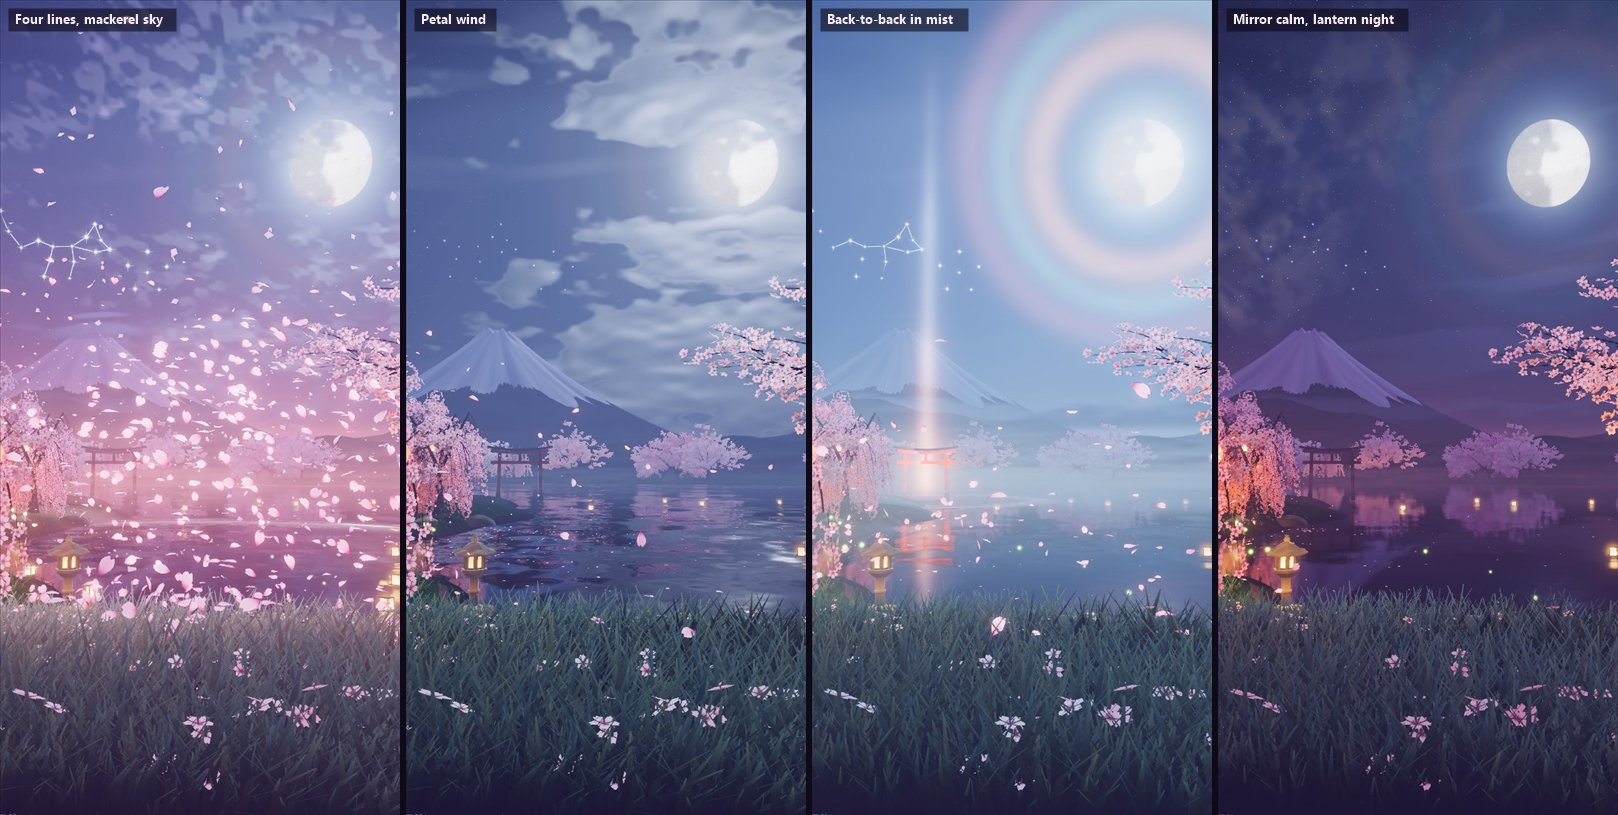
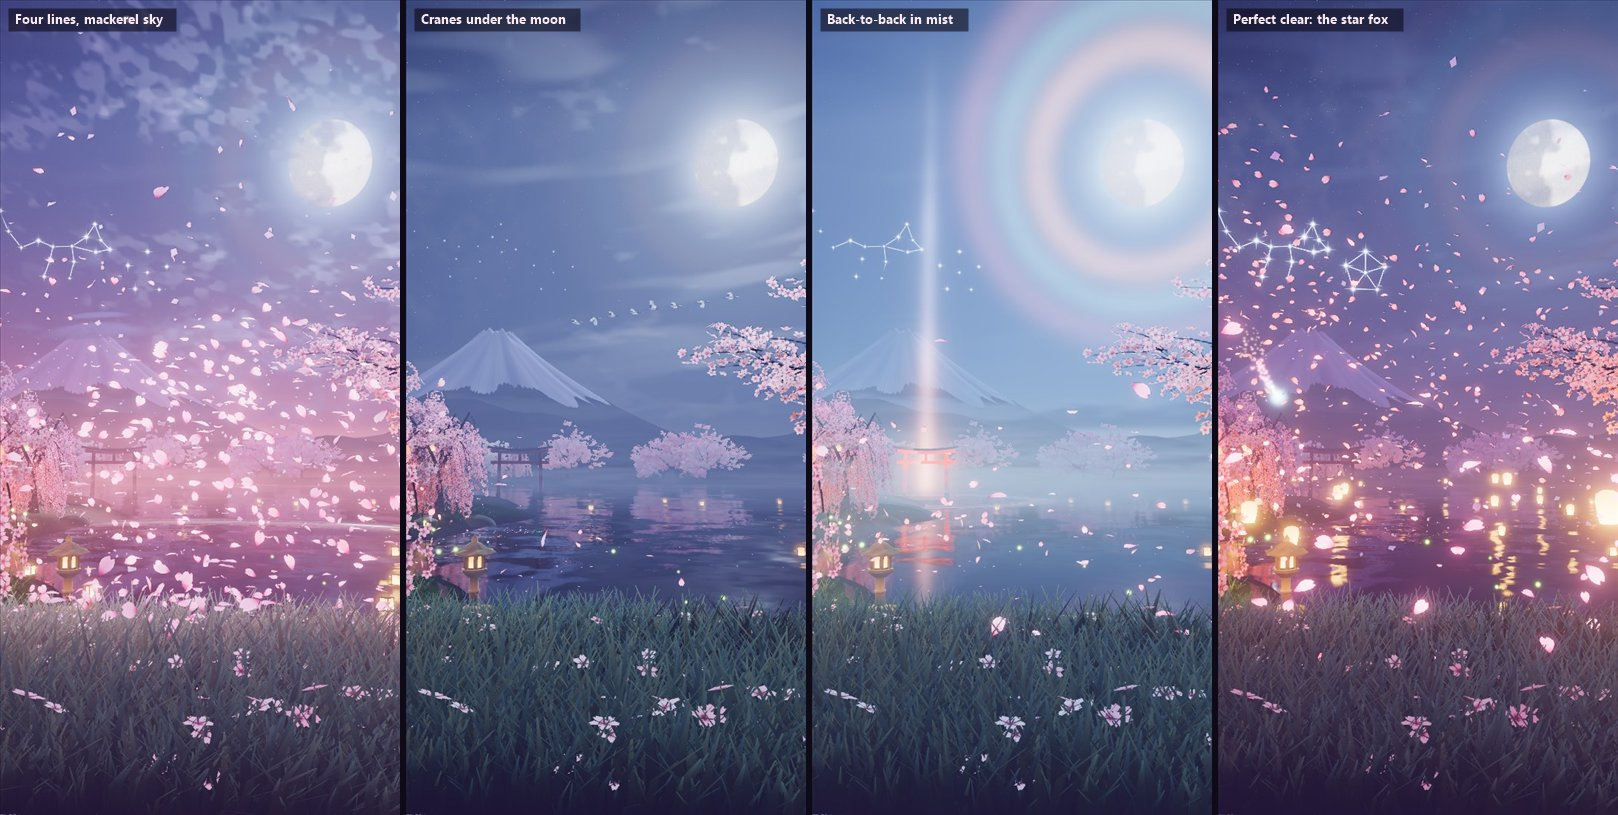
Docs and skill: Sakura Twilight's living night — the cranes, the tests and the faults they found, uncapped cost; two more rows (the moon's grid edge, scoring a skein's routes)

diff --git a/docs/ARCHITECTURE_INDEX.md b/docs/ARCHITECTURE_INDEX.md
@@ -108,7 +108,7 @@ conflicts with it, the umbrella wins unless it explicitly links out to that plan
 | [HALCYON_APEX_VISUAL_OVERHAUL_2026-10.md](HALCYON_APEX_VISUAL_OVERHAUL_2026-10.md) | Reference | From-scratch rebuild (2026-10-08): the sanctuary of first light — a back-lit dawn over a clear lagoon, a terraced pyramid planned as boxes and emitted as flat masonry with closed-form baked occlusion, one shadow map read by every self-shaded surface, crystals cut as instanced bipyramids and shaded without a framebuffer read, ley lines as an arc-length coordinate that pulses run along, a lagoon that knows where the masonry stands (shelf, foam, bed, net of light, planar mirror), clouds as two planes in perspective, and a combo language of weightlessness (shards lift pair by pair, drops of the lagoon bead up); one node renderer on both backends, no assets; tiers, tests and in-game evidence. Perf-lane GPU cost and physical phones remain open. A depths pass (2026-10-21) makes the blue hour a deep dusk with stars that come out only under a dark zenith, carves the far ranges into spurs, gullies, snow and valley mist without moving the skyline, and gives Minimal a soft sun road on the water. A skyfarers pass (2026-11-16) replaces the visitors with a fleet of eight hulls modelled in Blender and shipped as a generated module (one instanced draw, ribbons for trails), three streams of seeded traffic flown from the path itself (formations, loops, a helix, a skim), and gives every event an answer of its own: spray fans, wisps to the great crystals, prism bursts and a salute for four lines, a crown over the sky for a perfect clear, a helix on a twist, a time-lapse on a level; a ringed giant in the dawn and seven distinct piece hues. |
 | [CRYSTAL_CAVE_VISUAL_OVERHAUL_2026-10.md](CRYSTAL_CAVE_VISUAL_OVERHAUL_2026-10.md) | Reference | Crystal Cave rebuilt as a Blender-sculpted hall (headless generator, one quantised GLB) whose rock carries eight baked light channels — one per mineral family, pool, skylight, occlusion — so play can re-colour and pulse each source; crystals traced analytically in the fragment shader (refraction, internal reflection, dispersion, an axial filament with closed-form parallax); a refracting, mirroring pool with ring waves; and a board-space event director (locks charge crystals of the piece's mineral, clears send a wave and grow new crystals, chains link a beam lattice). WebGPU and WebGL2 in-game captures and a passing phone-emulation run; perf-lane and physical-phone acceptance remain open. Second pass (2026-10-20, `feature/crystal-cave-overhaul`): the light in the air (every crystal cluster a soft point lamp in the damp air, integrated in closed form up to the scene depth, a drifting pool mist, the skylight's shaft as a Gaussian cone), crystals that see the cave behind them and show their far facets' edges, whole-facet glints, a dimmer carpet of small points, a pool that mirrors the light in the air over a caustic-lit bed, and fluted, veined, wet rock; a WGSL/GLSL shader gate. |
 | [SAKURA_TWILIGHT_ATMOSPHERE_2026-10.md](SAKURA_TWILIGHT_ATMOSPHERE_2026-10.md) | Reference | Sakura Twilight's atmosphere pass (2026-10-21): night grass (blue-green and olive patches, moon-silvered tips, a shaded near lip) with whole flowers fallen into it; petals in the air built finer from the pack's petal (cupped, notched, blushed); oborozuki, the hazy moon, with readable seas and a lunar corona; snow fingers down the mountain's gullies; foxfire as will-o'-wisps; star dust; later redraws of the static moon shadow map against an async-prewarm race. Before/after captures, in-game check, cost by construction (no timings: the GPU was shared). |
-| [SAKURA_TWILIGHT_LIVING_NIGHT_2026-11.md](SAKURA_TWILIGHT_LIVING_NIGHT_2026-11.md) | Reference | Sakura Twilight's third pass (2026-11-18, an audit and then "the living night"): weather on a clock of its own beside the five hours (six airs, 84 s each: clear, petal wind, mackerel sky, hazy moon, mist on the lake, mirror calm: `sakura-weather.js`); the sky rewritten with moonlit cloud banks drawn from the side, a mackerel field, a veil, coloured stars and the river of heaven, the dome drawn last; the mountain's cap cloud, sea of cloud and snow banner; a lake that can lie like glass; and an instrument of its own for every event (`sakura-showpieces.js`: spray on the lake for a hard drop, a double helix for a twist, every firefly rising for three lines, a blizzard through the whole garden for four, the gate waking for a back-to-back, the star fox coming down through the gate for a perfect clear, the mist closing in at game over). What was tried and taken out, capped GPU cost before and after, playground, WebGL2, tier, portrait and in-game captures. |
+| [SAKURA_TWILIGHT_LIVING_NIGHT_2026-11.md](SAKURA_TWILIGHT_LIVING_NIGHT_2026-11.md) | Reference | Sakura Twilight's third pass (2026-11-18, an audit and then "the living night"): weather on a clock of its own beside the five hours (six airs, 84 s each: clear, petal wind, mackerel sky, hazy moon, mist on the lake, mirror calm: `sakura-weather.js`); the sky rewritten with moonlit cloud banks drawn from the side, a mackerel field, a veil, coloured stars and the river of heaven, the dome drawn last; the mountain's cap cloud, sea of cloud and snow banner; a lake that can lie like glass; and an instrument of its own for every event (`sakura-showpieces.js`: spray on the lake for a hard drop, a double helix for a twist, every firefly rising for three lines, a blizzard through the whole garden for four, the gate waking for a back-to-back, the star fox coming down through the gate for a perfect clear, the mist closing in at game over); a skein of Blender-modelled red-crowned cranes that crosses the sky now and then (`sakura-cranes.js`); sixteen faults found by contract tests and fixed (the suites went from 539 to 763 tests, with a shader gate). What was tried and taken out, capped GPU cost before and after, playground, WebGL2, tier, portrait and in-game captures. |
 | [SAKURA_TWILIGHT_OVERHAUL_2026-10.md](SAKURA_TWILIGHT_OVERHAUL_2026-10.md) | Reference | Sakura Twilight rebuilt from a WebGL/GLSL scene into a moonlit garden on the node renderer: Blender-grown cherries (headless generator reusing the Fall grove's growth and GLB modules), a mirror lake with `ReflectorNode`, a static moon shadow map with `GodraysNode` beams, lantern light baked per blossom spray, a CPU petal simulation, and an event language of rings on the lake, petal jets, foxfire, constellations and lanterns. Its two foxes were rebuilt on 2026-10-09 on the fox rig and mind shared with Winter (`src/themes/shared/fox-rig.js`, `fox-mind.js`): the sample fox subdivided and re-boned by `scripts/sakura/rig-fox.mjs`, animated procedurally, under shells of fur. Playground, in-game and WebGL2 captures; a first-frame compile finding (pipeline count, `setLayout` and uniforms). Performance on integrated and phone GPUs remains unmeasured. |
 | [FALL_ENCHANTED_GROVE_OVERHAUL_2026-10.md](FALL_ENCHANTED_GROVE_OVERHAUL_2026-10.md) | Reference | Fall rebuilt as a backlit autumn grove: Blender-grown maple, oak and birch (headless generator, quantised GLBs, a data sprite sheet for the far forest), one static sun shadow map read by every unlit material, r186 `GodraysNode` shafts on both backends, a CPU leaf simulation, and a board-space event language (lock puffs, clear jets, canopy shower, combo vortex). Playground, production-game and WebGL2 captures; hardware performance on integrated and phone GPUs remains unmeasured. 2026-10-26: a red squirrel lives on the hero maple and oak and the floor between them ("The red squirrel"): modelled, rigged and animated in Blender (a distance-field body, a 30-bone rig, sixteen IK-solved clips keyed as actions, one 440 KiB GLB with its acorn), drawn on the bark measured from the trees' own meshes, driven by a seeded planner of routines that is a pure function of the clock and the board's events, lit by the grove's low sun. Its motion pass the same day ("The motion pass"): gaits rebuilt round the leg's reach and keyed at 60 fps, turns on the spot, eased starts and stops, chained blends, the tail's follow-through and a look that never flips; the worst frame-to-frame jolt in body and head down from 60–90° to about 10°. Then a trees-and-tail pass ("Both trees, and the tail"): it keeps to both trees (restless after 15 s by one; across the floor in dashes with stops beside the board, or up one tree and through the treetops down the other), and the tail became a combed plume with hair cards measured from the body and skinned to its bones (fall-squirrel-plume.js), laid along the bark when it climbs, with a delay-line follow-through and tail flicks. |
 | [GOLDEN_FOREST_LAKE_OVERHAUL_2026-10.md](GOLDEN_FOREST_LAKE_OVERHAUL_2026-10.md) | Reference | Golden Forest rebuilt as a Nordic lake at the golden hour: Blender-grown Norway spruce and Scots pine (needles as serrated geometry), a planar-mirror lake with an analytic ring pool, one static sun shadow map and r186 `GodraysNode` shafts on both backends, a CPU firefly simulation, closed-form birds, and a board-space event language (rings where a piece lands, firefly jets, a combo river with ribbons of light). Replaces the dual GLSL/TSL implementation; playground, real-game and WebGL2 captures; no admissible frame-cost measurement yet. |

diff --git a/docs/SAKURA_TWILIGHT_LIVING_NIGHT_2026-11.md b/docs/SAKURA_TWILIGHT_LIVING_NIGHT_2026-11.md
@@ -40,6 +40,10 @@ board's readability (the card is dark and the garden never crosses it).
 **Missing:** weather; anything on the mountain; a use for the torii, which stands in the best
 open spot of the frame and did nothing; life in the sky.
 
+Found later, by a helper looking at the unobstructed portrait moon: the moon's seas broke along a
+straight vertical edge (the noise's square grid). Each read is now turned its own way and the
+seas' place is pulled about first.
+
 ## What changed
 
 ### The night changes: six airs beside the five hours
@@ -82,6 +86,32 @@ left shoulder across the open sky of both framings, with a dark rift that widens
 The moon's seas are read only inside its disc. A star falls by itself every quarter minute or
 so when the sky is clear enough to show one. The dome is now drawn last among the opaque things,
 so the sky behind the trees, the mountain and the lake is never shaded.
+
+### Cranes (`sakura-cranes.js`, `sakura-crane-routes.js`, `sakura-crane-model.js`)
+
+Every 80 to 150 seconds a skein of red-crowned cranes (nine at the top tiers, four at Minimal)
+crosses the sky: over the summit, or level across the snow. The bird is the theme's own,
+modelled headless in Blender (`scripts/blender/sakura_crane.py`, 452 triangles, written as a
+generated, byte-reproducible module): white, with the black neck and the black trailing half of
+the wing that mark the species, and the red crown. No skeleton: each vertex carries how much the
+shoulder and the wrist move it, and the vertex stage folds the wings. One instanced draw, lit by
+the garden's own rig (the moon's colour on the side turned to it, the hour's sky from above,
+then the air), never additive.
+
+The rules the owner set on earlier bird passes hold, and a probe
+(`node scripts/sakura-crane-probe.mjs`) and a test check them: a flight goes from out of sight
+to out of sight at one pace, as one flock, evenly spaced; no bird is scaled or faded in within
+the frame. Routes were chosen by scoring candidates through both rest cameras; routes toward
+the eye scored longest and looked worst (a crane head-on is a thin V), so both kept routes are
+side-on crossings, each flown either way.
+
+Three things to know: the birds are drawn 2.2 times life (a 2.4 m crane 100 m off is 18 pixels
+of span at 1280 wide and read as a squiggle; they fly 95 to 135 m from the eye); in landscape
+about a third of a flight is in open sky, the rest behind the card and the two cherries (in
+portrait all of it shows); and though the mesh is in the lake's mirror pass, no reflection could
+be found in a capture.
+
+![Cranes](sakura-twilight-overhaul/living-cranes.jpg)
 
 ### The mountain's weather (`sakura-backdrop.js`)
 
@@ -132,19 +162,48 @@ its first appearance in play compiles nothing.
 
 ## Cost
 
-Measured in the playground at 1920 x 1080 with the GPU timestamp profiler, capped at 30 fps
-(the owner's standing rule for light GPU work), ten seconds a case, two interleaved rounds,
-this branch against the untouched `main` checkout on a second server:
+Measured in the playground at 1920 x 1080 with the GPU timestamp profiler, ten seconds a case,
+two interleaved rounds, this branch against the untouched `main` checkout on a second server.
+First capped at 30 fps; then, once the owner said full speed could be used, uncapped (vsync and
+the frame-rate limit off), where the GPU does not clock down between frames and the readings are
+steadier. Medians of each round, GPU ms a frame:
 
-| Case | GPU ms a frame, before | after |
+| Case | Before | After |
 | --- | --- | --- |
-| High, at rest | 1.05, 1.08 | 1.02, 1.03 (clear) · 1.05, 1.01 (petal wind) · 1.04, 1.02 (mackerel) |
-| Low | 0.48, 0.47 | 0.42, 0.42 (petal wind) |
+| High at rest, capped | 1.05, 1.08 | 1.02, 1.03 (clear) · 1.05, 1.01 (petal wind) · 1.04, 1.02 (mackerel) |
+| Low, capped | 0.48, 0.47 | 0.42, 0.42 (petal wind) |
+| High at rest, uncapped | 1.45, 1.48 | 1.36, 1.42 (clear) · 1.21, 1.32 (petal wind) · 1.33, 1.32 (mirror calm) |
+| Low, uncapped | 0.93, 0.73 | 0.64, 0.63 (petal wind) |
 
-That is "no dearer", not a frame rate: capped readings on an RTX laptop say nothing about an
-integrated GPU, and no uncapped run and no integrated-GPU run was made. Drawing the dome last is
-what pays for the richer sky. The page's own time per frame was within the noise (medians
-4.6 to 6.3 ms either side).
+That is "no dearer" on this RTX laptop (the uncapped runs were made before the cranes and the
+moon's fifth read went in: one small instanced draw and one texture read inside the disc). It
+says nothing about an integrated GPU, where no run was made. Drawing the dome last is what pays
+for the richer sky. The page's own time per frame was within the noise (medians 2.8 to 3.9 ms
+either side, uncapped).
+
+## Tests, and the faults they found
+
+A second helper wrote tests against a written contract of the new behaviour, with no access to
+change the source and told to pin a fault rather than bend a test. The theme's suites went from
+539 tests to 763 (`tests/unit/sakura-*.test.js`: new suites for the weather, the showpieces, the
+cranes and a WGSL/GLSL shader gate; the reactions, director, simulation, hours and world suites
+extended, with a ten-minute scripted session of play). It pinned sixteen faults in the new code,
+all fixed in the same pass. The ones a player could have met:
+
+- Under fast play the fireflies' cloud could vanish in one frame: its emitter counted as "spent"
+  after its first frame and was the first to be reclaimed.
+- An emitter the garden had not yet seen could be given up before ones already playing, so a
+  faint one-shot (the gate's ring) was sometimes lost in a pile-up at the lowest tiers.
+- A second star fox setting out while the gate still burned from the first snuffed that light.
+- In a narrow landscape window (aspect 0.86 to about 1.1) the star fox flew off the left edge:
+  its path is now laid through the framing it is seen in.
+- Each of the night's own falling stars drew three values from the garden's shared random
+  sequence, so the petals thrown afterwards depended on whether a star had fallen.
+- After a reset late in a session the first falling star came at once instead of nine seconds on.
+- A hard drop that could not be placed put its spray on the opposite side from its puff.
+
+The rest were junk-input guards (a non-number power or height reaching a uniform as NaN, blank
+text pinning an air) and two places where the code did not do what its own comment said.
 
 ## Verification
 
@@ -157,8 +216,12 @@ what pays for the richer sky. The page's own time per frame was within the noise
 
   ![In the game](sakura-twilight-overhaul/living-in-game.jpg)
 
+- **Gates**: `npm run typecheck`, the theme's suites (763 tests), the cross-theme gates
+  (registry lifecycle, dual-state tripwire, URL parameter catalog, camera breath, reduce
+  flashing), `npm run audit:theme-lifecycle`, `npm run check:boundaries`,
+  `npm run check:ip-strings`; no ESLint errors in the theme.
 - **Portrait** has its own framing; the moon is clear of the trees there, so the hazy moon's
-  ring and the mackerel sky show best in it.
+  ring, the mackerel sky and the cranes show best in it.
 
   ![Portrait](sakura-twilight-overhaul/living-portrait.jpg)
 
@@ -167,8 +230,10 @@ what pays for the richer sky. The page's own time per frame was within the noise
 - The cap cloud is a painted card: from the lake it reads as a lenticular cloud, not as a volume.
 - The mist's air (`mist`) hides the far shore almost entirely at dawn; that is intended, and it
   lasts under a minute.
-- The star fox's flight is staged for the landscape framing; in portrait it comes in from the
-  left edge and is short.
+- The star fox's flight is laid through each framing's sky, but in a nearly square window the
+  open sky left of the card is small and part of the flight passes behind it.
+- The piece colours were left as the owner set them on 2026-11-03. Two pairs are close (the S and
+  L pinks, the Z and J purples); that is a readability question for the owner, not changed here.
 - Low and Minimal have no bloom: the gate's light and the helix are flatter there.
 - The theme icon was not re-baked: the garden's resting look is unchanged.
 - No uncapped frame-rate run and no integrated-GPU run was made.
